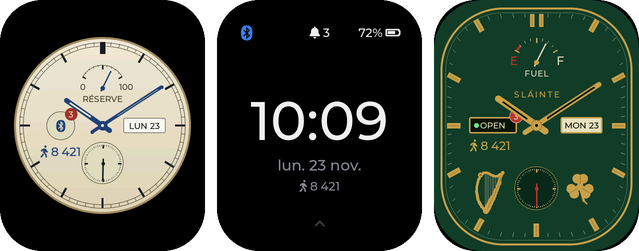
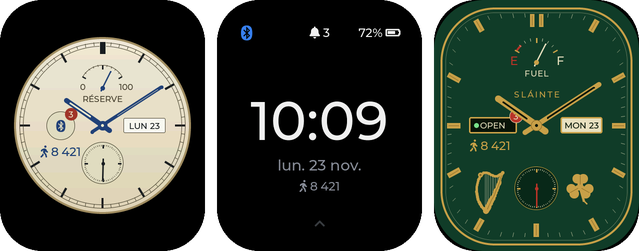
Even OTA transfer, MeshCore saved across restarts, face radius 118 (0.2.9)
The OTA slot is erased for the image's whole size before the transfer
instead of sector by sector, which stalled the flash cache and made the
Wi-Fi drop packets. MeshCore is stopped cleanly before every restart so
the app queue and the watch history are saved, and the watch history is
now persisted on FAT.

Claude-Session: https://claude.ai/code/session_01Nqsr6b5CwrM981WEkX4LFL

diff --git a/main/meshcore/mc_port.cpp b/main/meshcore/mc_port.cpp
@@ -29,6 +29,9 @@ static const char *TAG = "mesh";
 
 #define OFFQ_PATH      "/offq"
 #define OFFQ_SAVE_MS   5000     /* file modifiée : sauvegarde après 5 s de calme */
+#define HIST_PATH      "/hist"
+#define HIST_SAVE_MS   30000    /* historique montre : sauvegarde après 30 s de calme */
+#define HIST_MAGIC     0x48430001u
 #define BUSY_TICK_MS   20       /* tâche active (émission, échanges avec l'app) */
 #define IDLE_TICK_MS   1000
 #define BUSY_HOLD_MS   3000     /* reste active un moment après un événement */
@@ -299,6 +302,7 @@ static int s_hist_n, s_hist_head;       /* head : prochain emplacement */
 static uint32_t s_seq;
 static SemaphoreHandle_t s_hist_mx;
 static mc_msg_cb_t s_msg_cb;
+static int64_t s_hist_dirty_at;          /* 0 : rien à sauver */
 
 /* tronque sans couper un caractère UTF-8 */
 static void copy_utf8(char *dst, size_t cap, const char *src)
@@ -316,6 +320,7 @@ static void hist_add(mc_msg_t *m)
     s_hist[s_hist_head] = *m;
     s_hist_head = (s_hist_head + 1) % HIST_N;
     if (s_hist_n < HIST_N) s_hist_n++;
+    if (!s_hist_dirty_at) s_hist_dirty_at = esp_timer_get_time();
     xSemaphoreGive(s_hist_mx);
     if (s_msg_cb) s_msg_cb(m);
 }
@@ -331,6 +336,48 @@ extern "C" bool mc_history_get(int i, mc_msg_t *out)
     if (ok) *out = s_hist[(s_hist_head - 1 - i + HIST_N) % HIST_N];
     xSemaphoreGive(s_hist_mx);
     return ok;
+}
+
+/* Historique de la montre sur la FAT : survit aux redémarrages (fin de
+ * mise à jour OTA comprise). Format : magique, nombre, puis les messages
+ * du plus ancien au plus récent. Écrit seulement après un temps calme ou à
+ * l'arrêt, pour ménager la flash. Copie faite sous le verrou, écriture hors
+ * verrou (l'interface lit l'historique pendant ce temps). */
+static void hist_save(void)
+{
+    EXT_RAM_BSS_ATTR static mc_msg_t snap[HIST_N];   /* tâche mesh seule ; PSRAM */
+    xSemaphoreTake(s_hist_mx, portMAX_DELAY);
+    uint32_t n = (uint32_t)s_hist_n;
+    for (uint32_t i = 0; i < n; i++) snap[i] = s_hist[(s_hist_head - (int)n + (int)i + HIST_N) % HIST_N];
+    s_hist_dirty_at = 0;
+    xSemaphoreGive(s_hist_mx);
+    File f = SPIFFS.open(HIST_PATH, "w", true);
+    uint32_t hdr[2] = { HIST_MAGIC, n };
+    bool ok = f && f.write((const uint8_t *)hdr, sizeof hdr) == sizeof hdr &&
+              f.write((const uint8_t *)snap, n * sizeof(mc_msg_t)) == n * sizeof(mc_msg_t);
+    f.close();
+    if (!ok) ESP_LOGW(TAG, "historique non sauvegardé");
+}
+
+static void hist_load(void)
+{
+    File f = SPIFFS.open(HIST_PATH, "r");
+    if (!f) return;
+    uint32_t hdr[2] = { 0, 0 };
+    if (f.read((uint8_t *)hdr, sizeof hdr) == sizeof hdr && hdr[0] == HIST_MAGIC && hdr[1] <= HIST_N) {
+        int n = 0;
+        while (n < (int)hdr[1] && f.read((uint8_t *)&s_hist[n], sizeof(mc_msg_t)) == sizeof(mc_msg_t)) {
+            s_hist[n].from[MC_NAME_MAX - 1] = 0;           /* fichier abîmé : chaînes bornées */
+            s_hist[n].text[MC_TEXT_MAX] = 0;
+            s_hist[n].seq = (uint32_t)n + 1;
+            n++;
+        }
+        s_hist_n = n;
+        s_hist_head = n % HIST_N;
+        s_seq = (uint32_t)n;
+        ESP_LOGI(TAG, "%d message(s) dans l'historique", n);
+    }
+    f.close();
 }
 
 class WatchListener : public MyMesh::Listener {
@@ -450,6 +497,7 @@ static void mesh_task(void *arg)
             /* l'app vide la file : on attend la fin de la synchro */
             if (now - s_offq_dirty_at >= OFFQ_SAVE_MS * 1000LL && !s_ble->pending()) offq_save();
         }
+        if (s_hist_dirty_at && now - s_hist_dirty_at >= HIST_SAVE_MS * 1000LL) hist_save();
         update_status();
 
         bool busy = now < s_busy_until || s_mesh->hasPendingWork() || s_ble->pending() ||
@@ -457,6 +505,7 @@ static void mesh_task(void *arg)
         ulTaskNotifyTake(pdTRUE, pdMS_TO_TICKS(busy ? BUSY_TICK_MS : IDLE_TICK_MS));
     }
     if (s_mesh->isOfflineQueueDirty()) offq_save();
+    if (s_hist_dirty_at) hist_save();
     radio_driver.stop();
     s_task = NULL;
     vTaskDelete(NULL);
@@ -485,6 +534,7 @@ extern "C" esp_err_t mc_start(void)
         s_store->begin();
         s_mesh->begin();                    /* identité, préférences, contacts, canaux */
         offq_load();
+        hist_load();
         s_mesh->startInterface(*s_ble);
         s_mesh->setListener(&s_listener);
         heap_caps_malloc_extmem_enable(CONFIG_SPIRAM_MALLOC_ALWAYSINTERNAL);

diff --git a/main/ota.c b/main/ota.c
@@ -1,5 +1,6 @@
 #include "i18n.h"
 #include "task_psram.h"
+#include "meshcore/mc_port.h"
 #include "esp_attr.h"
 #include "ota.h"
 #include <string.h>
@@ -307,9 +308,16 @@ static esp_err_t update_post(httpd_req_t *r)
                 return fail(r, 0, OTA_EV_ERR_IMAGE, "not_twatch");
             }
             strlcpy(s_new_ver, d->version, sizeof(s_new_ver));
-            if (esp_ota_begin(dst, OTA_WITH_SEQUENTIAL_WRITES, &h) != ESP_OK) {
+            /* effacement de toute la taille de l'image d'un coup, avant de
+             * recevoir la suite : sinon chaque secteur s'efface en cours de
+             * route (~45 ms, cache coupé), le Wi-Fi perd des paquets et TCP
+             * ralentit puis repart. Le téléphone patiente quelques secondes. */
+            int64_t t0 = esp_timer_get_time();
+            if (esp_ota_begin(dst, r->content_len, &h) != ESP_OK) {
                 return fail(r, 0, OTA_EV_ERR_WRITE, "flash_prep");
             }
+            ESP_LOGI(TAG, "emplacement effacé en %d ms", (int)((esp_timer_get_time() - t0) / 1000));
+            s_last_activity_us = esp_timer_get_time();
             checked = true;
         }
         if (esp_ota_write(h, buf, n) != ESP_OK) return fail(r, h, OTA_EV_ERR_WRITE, "flash_write");
@@ -787,6 +795,7 @@ const char *ota_start(void)
 
 void ota_reboot_now(void)
 {
+    mc_stop();                             /* sauve la file de l'app et l'historique MeshCore */
     if (s_httpd) httpd_stop(s_httpd);
     esp_wifi_stop();
     vTaskDelay(pdMS_TO_TICKS(100));
@@ -804,6 +813,7 @@ void ota_cancel(void)
          * httpd_stop() attendrait la fin du transfert, à l'infini (montre
          * figée). Redémarrage direct : l'image partielle est dans
          * l'emplacement inactif, jamais activé, rien à défaire. */
+        mc_stop();
         esp_restart();
     }
     ota_reboot_now();

diff --git a/main/face_pub.c b/main/face_pub.c
@@ -27,7 +27,7 @@
 #define TRACK_A   (PANEL_W / 2 - 18)              /* demi-largeur de la piste */
 #define TRACK_B   (PANEL_H / 2 - 18)              /* demi-hauteur */
 #define TRACK_P   4.0f        /* exposant du « squircle » de la piste (plus bas = plus rond) */
-#define RIM_R     135         /* rayon des cerclages au bord de l'écran : plus rond que la dalle */
+#define RIM_R     118         /* rayon des cerclages au bord de l'écran : plus rond que la dalle */
 #define IDX_LEN   18
 
 /* complications */

diff --git a/main/ui.c b/main/ui.c
@@ -1915,6 +1915,7 @@ static void reboot_confirm_cb(lv_event_t *ev)
     /* redémarrage voulu : une mise à jour encore « à l'essai » est validée,
      * sinon le bootloader reviendrait à l'ancienne version */
     esp_ota_mark_app_valid_cancel_rollback();
+    mc_stop();                             /* sauve la file de l'app et l'historique MeshCore */
     esp_restart();
 }
 

diff --git a/CHANGELOG.md b/CHANGELOG.md
@@ -2,6 +2,20 @@
 
 All notable changes. Versions follow `PROJECT_VER` in `CMakeLists.txt`.
 
+## 0.2.9 — 2026-11-23
+
+- *Pub* face: rim radius 118, between the panel's 100 and 0.2.8's 135.
+- Wi-Fi update: the image's whole size is erased once, before the transfer, instead of
+  sector by sector along the way. Each erase stopped the flash cache for tens of
+  milliseconds, the Wi-Fi dropped packets and TCP slowed down or paused. The transfer now
+  starts after a few seconds of preparation and should run evenly.
+- MeshCore keeps receiving during a Wi-Fi update (it was already running; the iPhone app
+  simply cannot connect while Bluetooth is off). Before every restart (end of update,
+  cancelled update, *Restart the watch*) MeshCore is stopped cleanly, so the app's queue and
+  the watch's message history are saved.
+- The watch's MeshCore history (64 messages) is now kept on flash and comes back after a
+  restart; it is written after 30 s without new messages, or when MeshCore stops.
+
 ## 0.2.8 — 2026-11-23
 
 - *Pub* face: rounder corners (brass rims radius 135 instead of following the panel's 100,

diff --git a/docs/fr/meshcore.md b/docs/fr/meshcore.md
@@ -45,11 +45,15 @@ L'app **MeshCore** (la première de la liste) affiche :
   contact, ceux des canaux sous `#canal`. Emoji et tout texte UTF-8 s'affichent comme sur le
   téléphone.
 
-La montre garde les 64 derniers messages en mémoire et en affiche 30. **Lire un message sur
+La montre garde les 64 derniers messages (enregistrés en flash : ils survivent à un redémarrage) et en affiche 30. **Lire un message sur
 la montre ne le retire pas à l'app** : il reste dans la file de l'app (256 messages au plus)
 et lui est remis quand elle se connecte.
 
 Quand MeshCore est coupé, l'app propose un bouton pour l'activer.
+
+Pendant une mise à jour par Wi-Fi, MeshCore continue de recevoir (le Bluetooth est coupé :
+l'app iPhone ne peut pas se connecter en attendant) ; la file et l'historique sont
+enregistrés avant le redémarrage de la montre.
 
 ## Consommation
 

diff --git a/docs/en/meshcore.md b/docs/en/meshcore.md
@@ -42,11 +42,14 @@ The **MeshCore** app (first in the app list) shows:
 - the last messages, newest first: direct messages under the contact's name, channel
   messages under `#channel`. Emoji and any UTF-8 text display as on the phone.
 
-The watch keeps the last 64 messages in memory and shows 30. **Reading a message on the
+The watch keeps the last 64 messages (saved on flash, so they survive a restart) and shows 30. **Reading a message on the
 watch does not take it away from the app**: it stays in the app's queue (up to 256 messages)
 and is delivered when the app connects.
 
 When MeshCore is off, the app offers a button to turn it on.
+
+During a Wi-Fi update, MeshCore keeps receiving (Bluetooth is off, so the iPhone app cannot
+connect meanwhile); the queue and the history are saved before the watch restarts.
 
 ## Power
 
